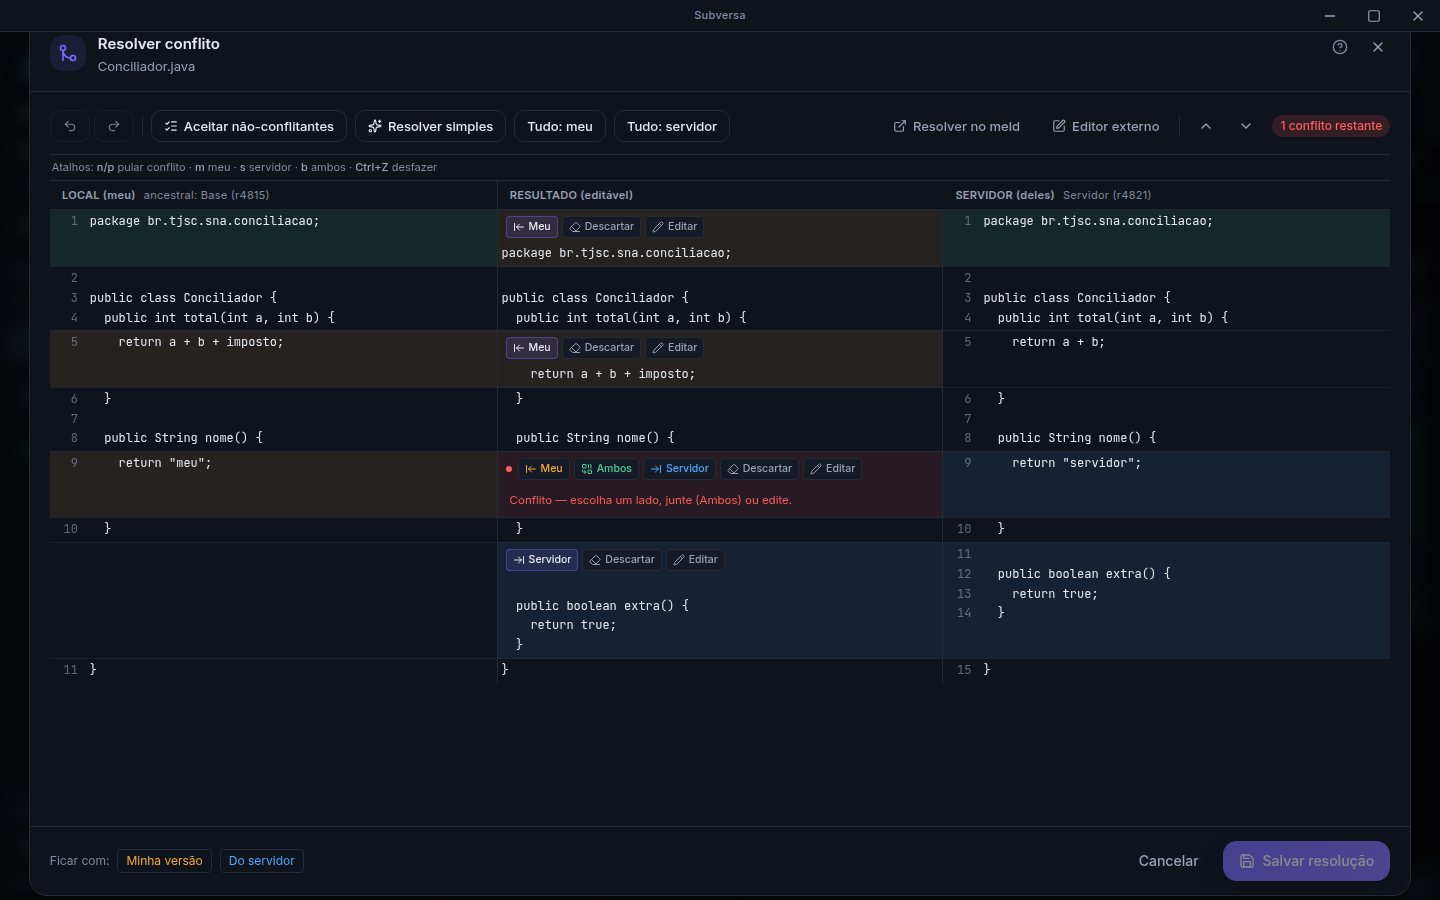
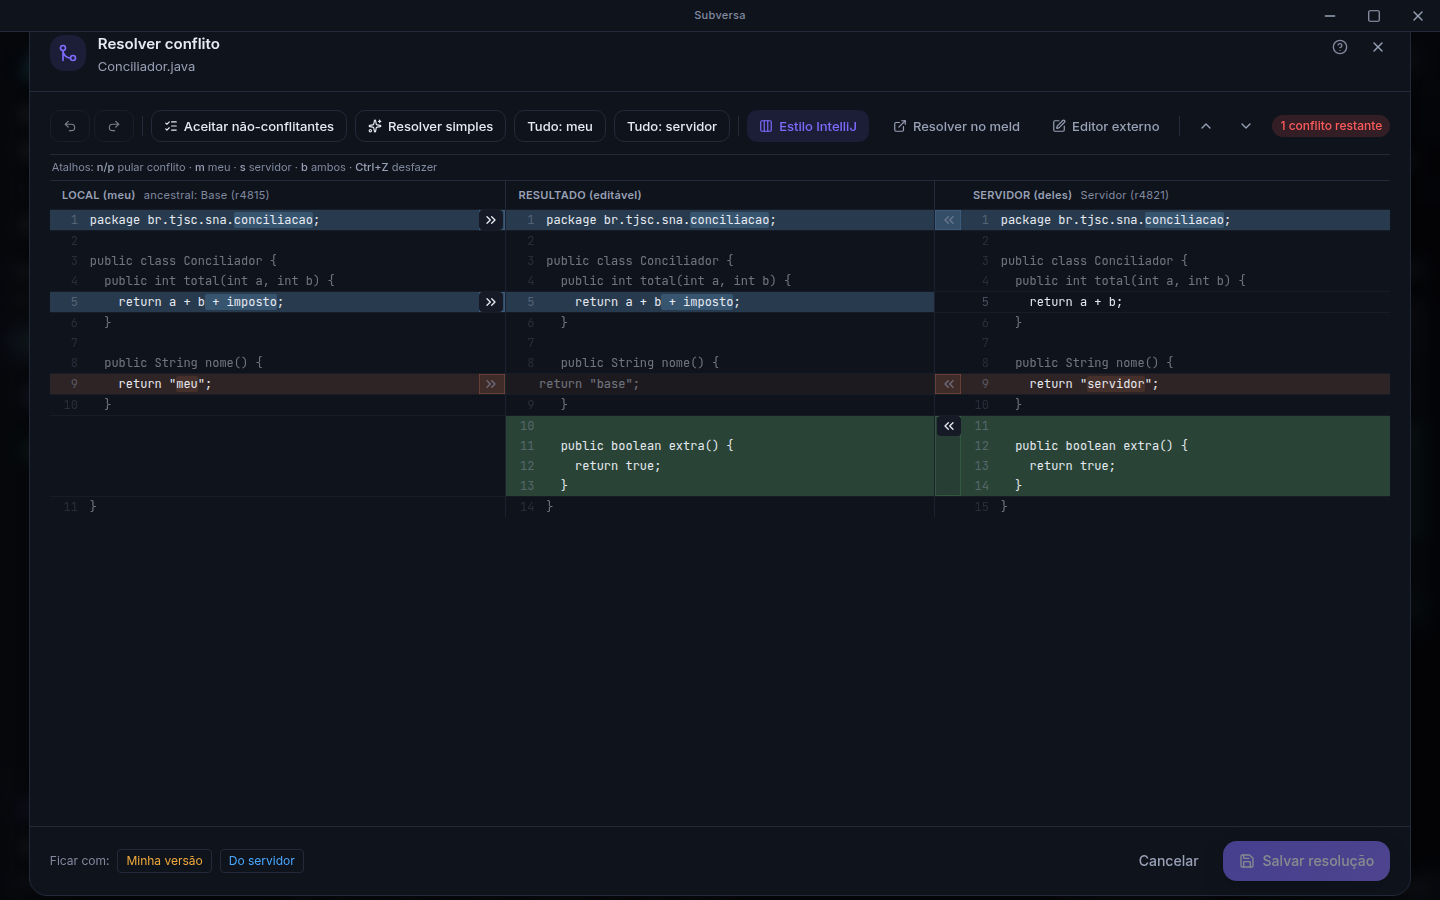
Conflitos: atualiza e2e do editor para o estilo novo
- Regenera o baseline merge-editor-linux.png (novo visual IntelliJ).
- Remove a asserção do placeholder "Conflito — escolha um lado" (o centro agora
  mostra a base real, sem texto no lugar do código).
- Resolve o conflito via "Tudo: servidor" (as setas de aplicar não têm mais
  nome acessível "Servidor").

diff --git a/e2e/views.spec.ts b/e2e/views.spec.ts
@@ -132,7 +132,6 @@ test.describe("tema escuro", () => {
     await expect(page.getByText("RESULTADO (editável)")).toBeVisible();
     await expect(page.getByText("SERVIDOR (deles)")).toBeVisible();
     await expect(page.getByText("1 conflito restante")).toBeVisible();
-    await expect(page.getByText(/Conflito — escolha um lado/)).toBeVisible();
     // Salvar trava enquanto houver conflito pendente.
     await expect(page.getByRole("button", { name: /Salvar resolução/ })).toBeDisabled();
 
@@ -457,8 +456,8 @@ test.describe("interações", () => {
     const save = page.getByRole("button", { name: /Salvar resolução/ });
     await expect(save).toBeDisabled();
 
-    // Resolve o conflito pegando o lado do servidor → libera o salvar.
-    await page.getByRole("button", { name: "Servidor", exact: true }).first().click();
+    // Resolve o conflito pegando o lado do servidor (barra: "Tudo: servidor") → libera o salvar.
+    await page.getByRole("button", { name: "Tudo: servidor" }).click();
     await expect(page.getByText("Sem conflitos pendentes")).toBeVisible();
     await expect(save).toBeEnabled();
 